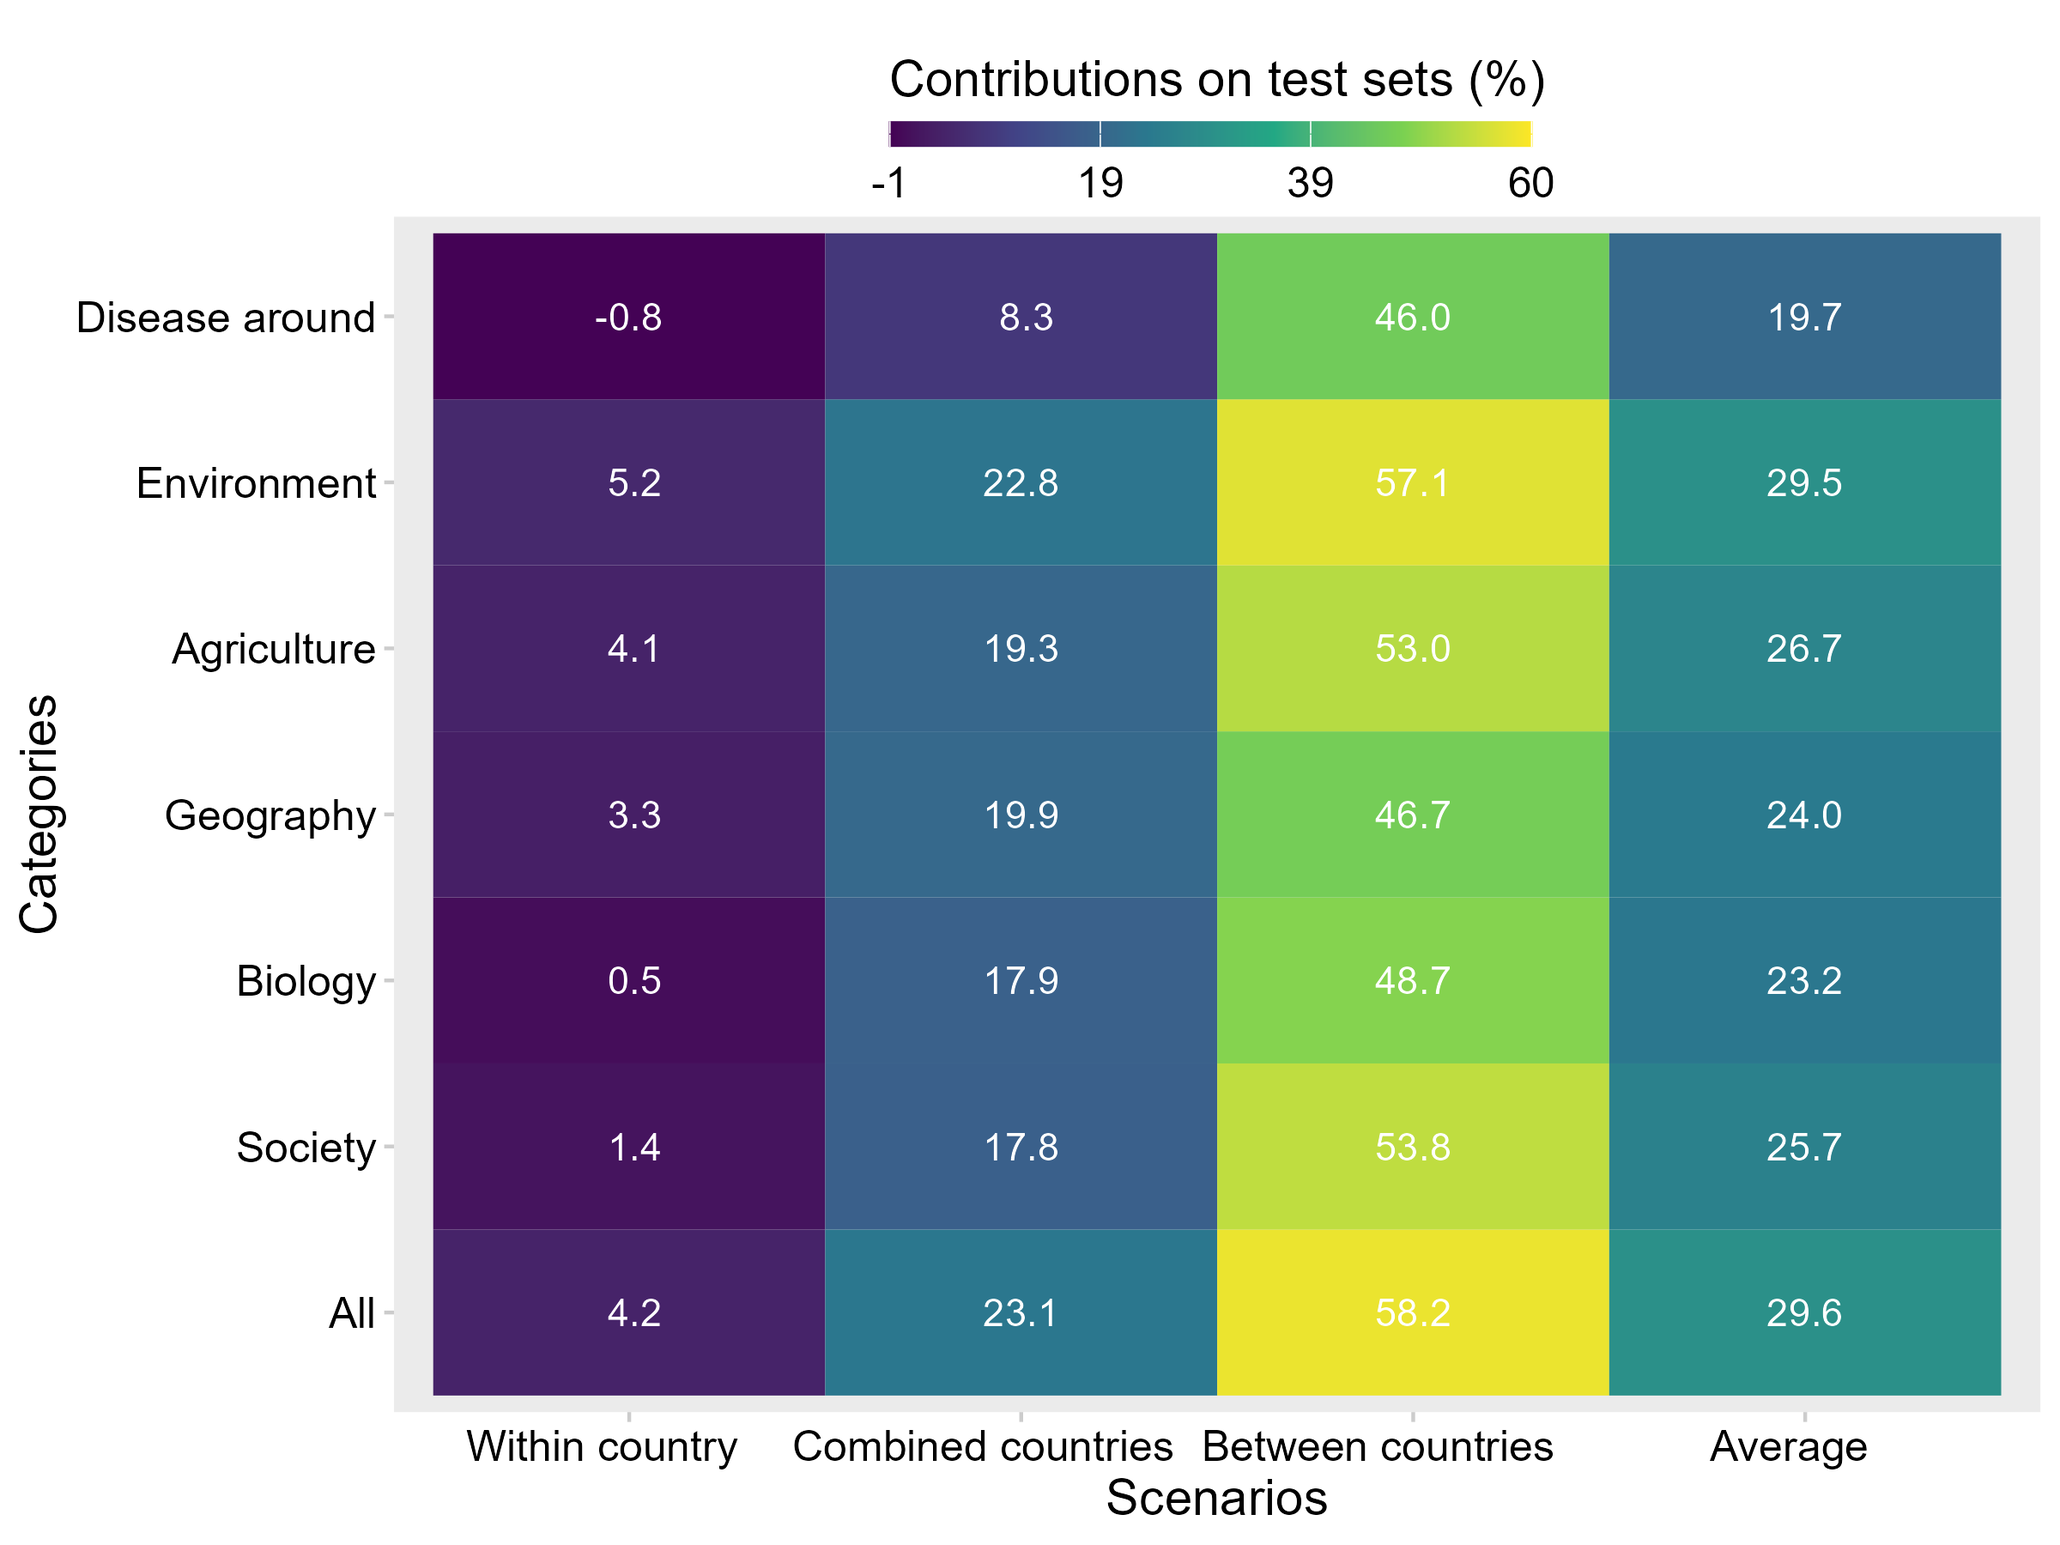
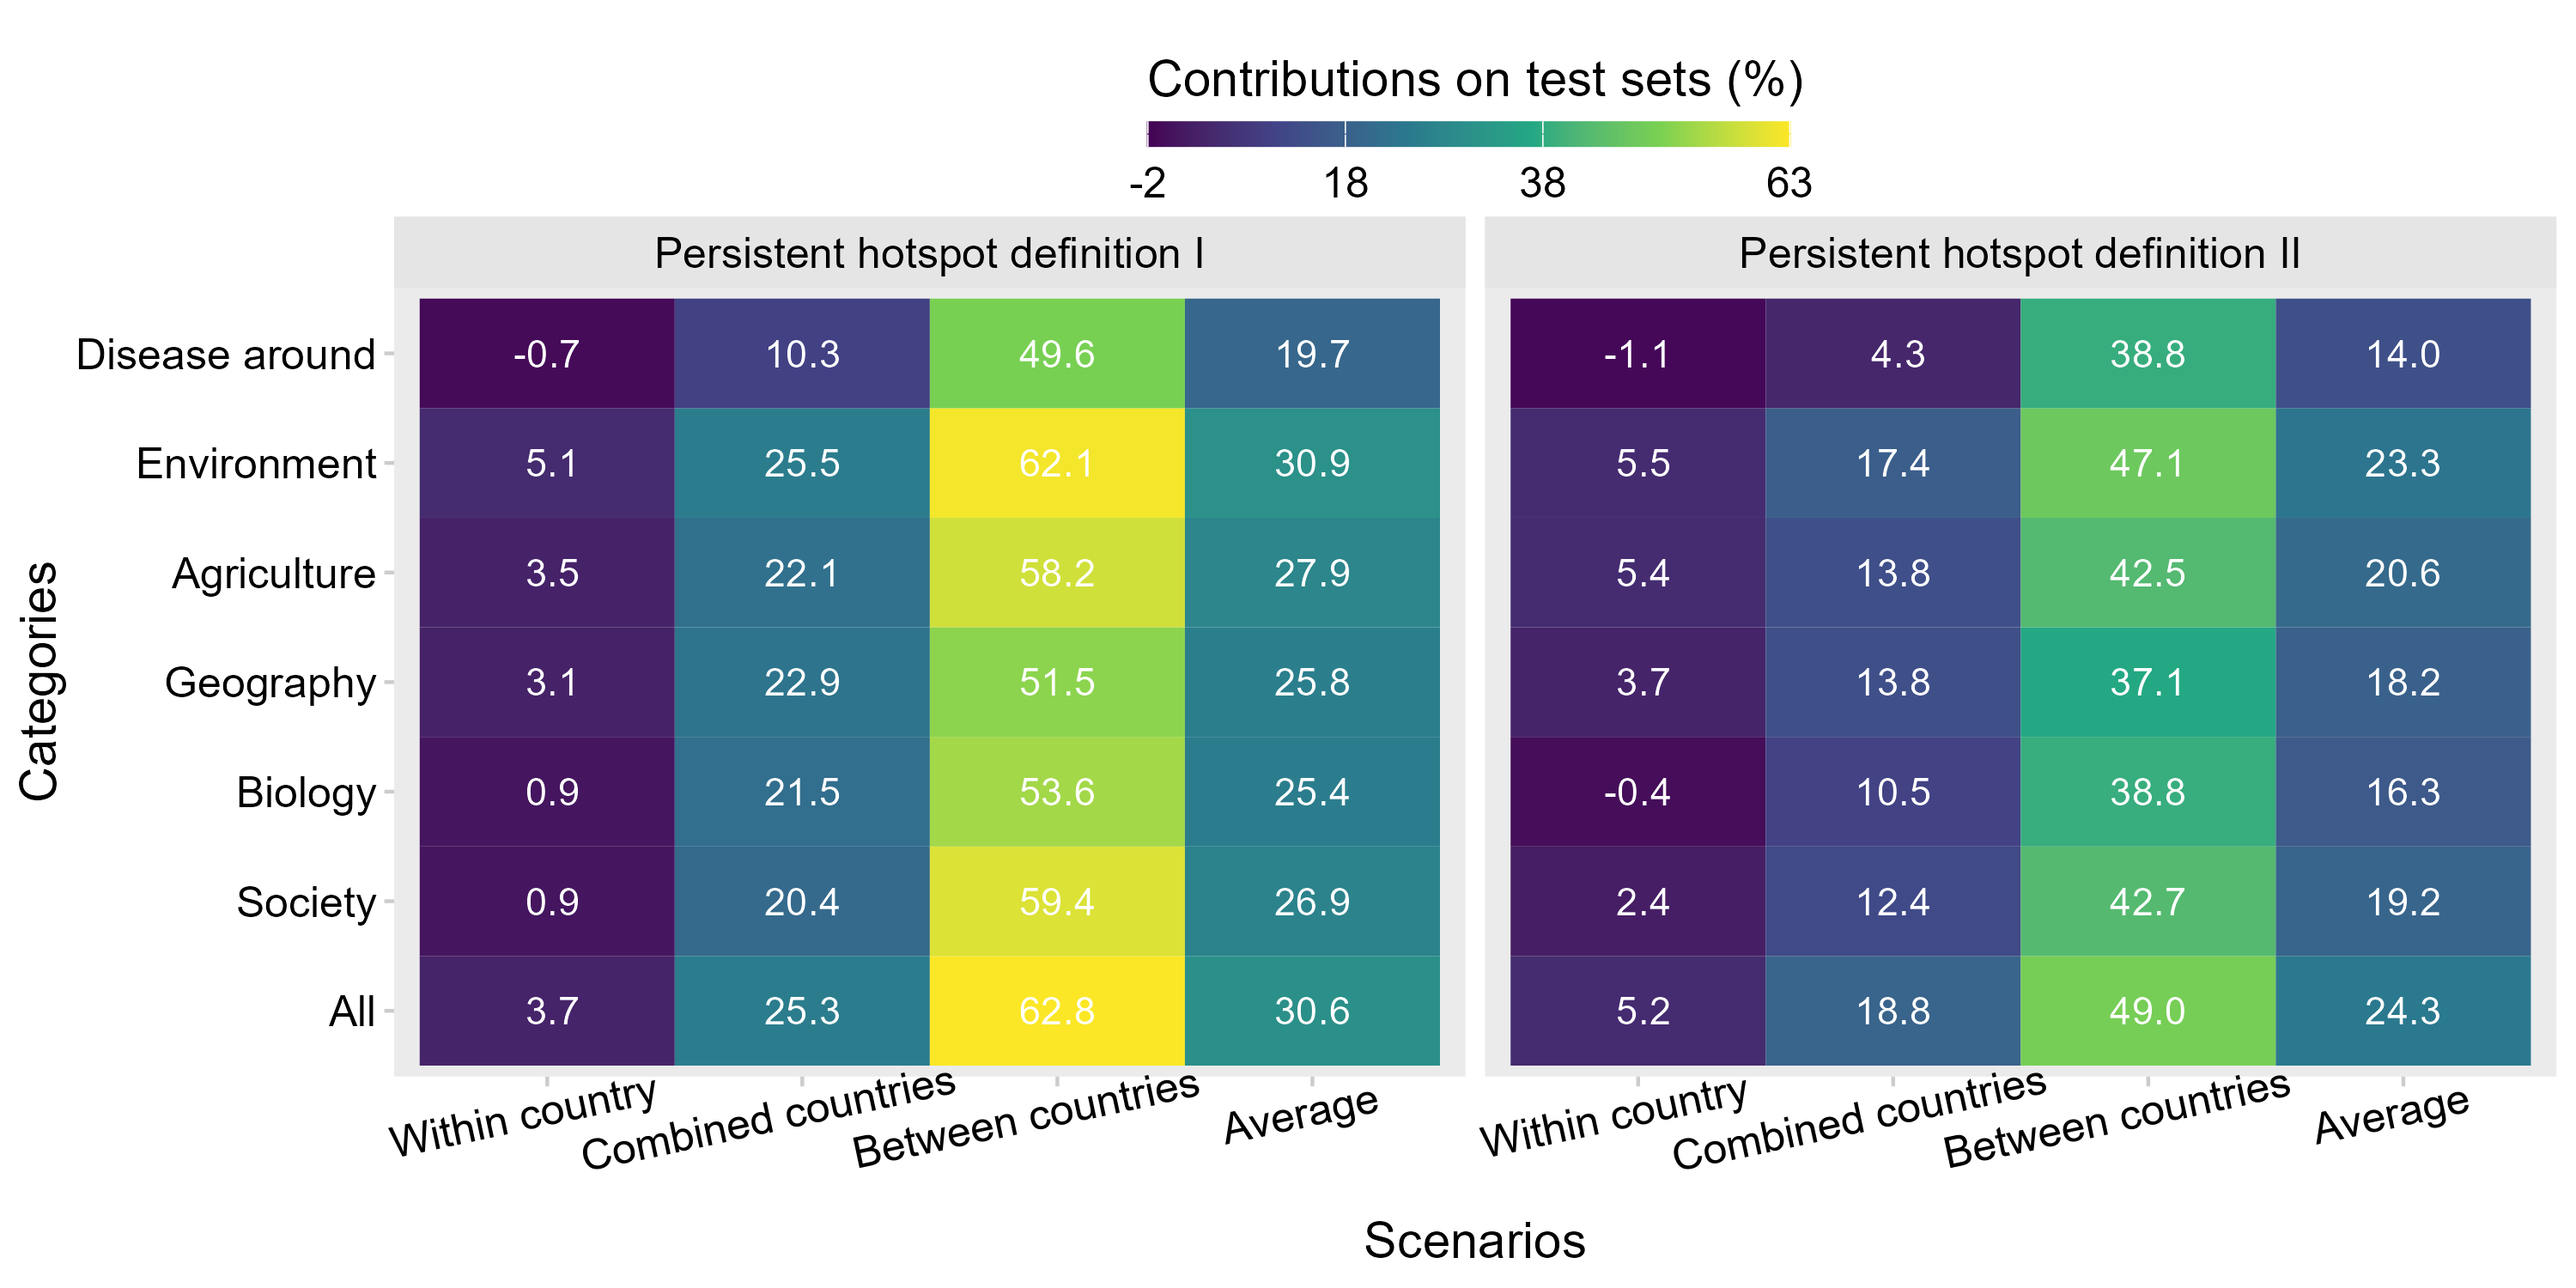
Html

diff --git a/index.html b/index.html
@@ -89,7 +89,7 @@
 								</header>
 								<ul class="features">
 									<li>
-									   <span class="image"><img src="images/HeadMap.jpg" alt=""  style="width: 60px; height: 60px; /></span>
+									   <span class="image"><img src="images/GeoMap.jpg" alt=""  style="width: 60px; height: 60px; /></span>
 										<!--<span class="icon solid major style1 fa-code"></span>-->
 										<h3>Refining hotspot prediction models for Schistosomiasis interventions</h3>
 									<!--	<p>Schistosomiasis has been threatening the lives of over 200 million people worldwide. In the prevention of Schistosomiasis, high-transmission areas where preventive treatment fails to achieve the expected reduction in infection prevalence and/or intensity, also known as hotspots, pose challenges for preventive efforts. Therefore, predicting the Schistosomiasis hotspots in advance is crucial for dynamic adjustment on preventive treatment and timely control of Schistosomiasis.</p>-->

diff --git a/generic.html b/generic.html
@@ -33,7 +33,7 @@
 					<section id="main" class="wrapper">
 						<div class="inner">
 							<h1 class="major">Schistosomiasis hotspots identification</h1>
-							<span class="image fit"><img src="images/pic04.jpg" alt="" /></span>
+							<span class="image fit"><img src="images/HeadMap.jpg" alt="" /></span>
 								<p>Schistosomiasis has been threatening the lives of over 200 million people worldwide. In the prevention of Schistosomiasis, high-transmission areas where preventive treatment fails to achieve the expected reduction in infection prevalence and/or intensity, also known as hotspots, pose challenges for preventive efforts. Therefore, predicting the Schistosomiasis hotspots in advance is crucial for dynamic adjustment on preventive treatment and timely control of Schistosomiasis.</p>
 						</div>
 					</section>
